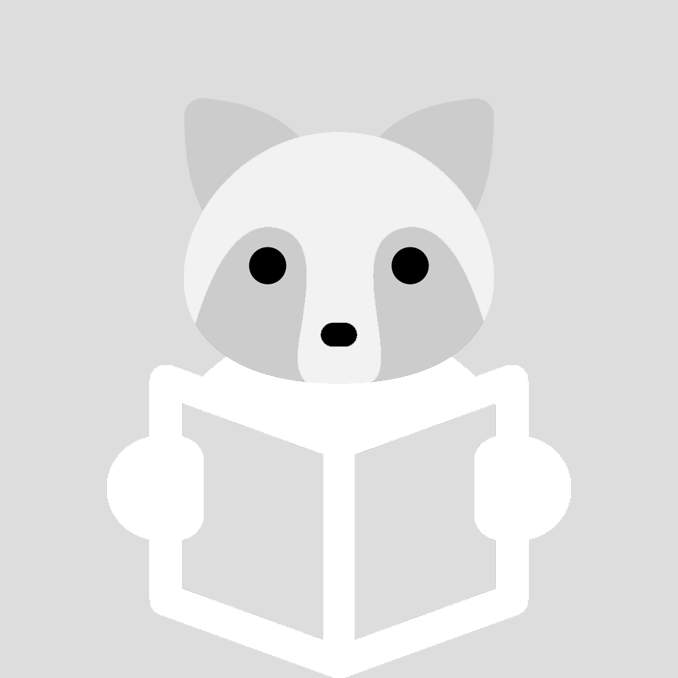
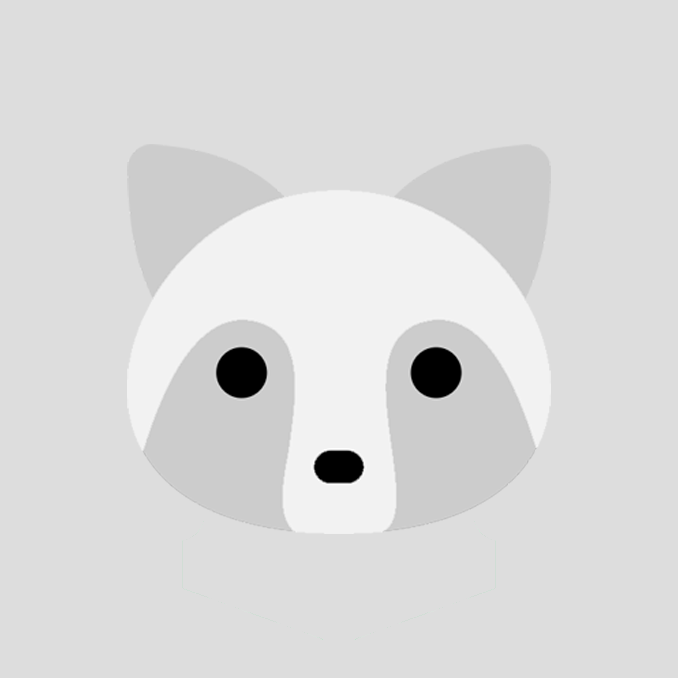
🎨 style: 기본 프로필 사진 변경, Join 주석 추가

Changed region(s): [[0.1549, 0.2478, 0.8673, 1.0], [0.4646, 0.6504, 0.5575, 0.7124]]

diff --git a/src/pages/Join.jsx b/src/pages/Join.jsx
@@ -15,15 +15,23 @@ import { emailState, pwState } from "../recoil/joinData";
 import EmailValidApi from "../api/EmailValidApi";
 
 export default function Join() {
+  // 이메일, 패스워드 상태 관리
   const [email, setEmail] = useRecoilState(emailState);
   const [password, setPassword] = useRecoilState(pwState);
   const [pwCheck, setPwCheck] = useState("");
+
+  // 에러 메시지 상태 관리
   const [emailErr, setEmailErr] = useState("");
   const [pwErr, setPwErr] = useState("");
   const [pwCheckErr, setPwCheckErr] = useState("");
+
+  // 버튼 활성화 상태 관리
   const [btnState, SetBtnState] = useState(true);
+
+  // useNavigate 사용
   const navigate = useNavigate();
 
+  // email, password, pwcheck 값을 useState에 저장
   const EmailValue = (e) => {
     setEmail(e.target.value);
     setEmailErr("");
@@ -39,6 +47,7 @@ export default function Join() {
     setPwCheckErr("");
   };
 
+  // 이메일 유효성 검사 => 통과 시 이메일 검증
   const EmailValid = async (e) => {
     e.preventDefault();
     if (!email) {
@@ -52,8 +61,10 @@ export default function Join() {
     handleValid();
   };
 
+  // 비밀번호 조건(정규 표현식)
   const passwordReg = /^(?=.*[a-z])(?=.*\d).{6,}$/;
 
+  // 비밀번호 유효성 검사
   const PasswordValid = (e) => {
     if (!password) {
       setPwErr("필수 입력 항목입니다.");
@@ -65,6 +76,7 @@ export default function Join() {
     handleValid();
   };
 
+  // 비밀번호 확인 유효성 검사
   const PwCheckValid = (e) => {
     if (!pwCheck) {
       setPwCheckErr("필수 입력 항목입니다.");
@@ -76,6 +88,7 @@ export default function Join() {
     handleValid();
   };
 
+  // 전체 필수 값, 에러 메시지 확인 후 버튼 활성화 또는 비활성화
   const handleValid = () => {
     if (
       emailErr === "사용 가능한 이메일 입니다." &&
@@ -91,10 +104,12 @@ export default function Join() {
     }
   };
 
+  // input 값 변할 때마다 버튼 활성화 확인
   useEffect(() => {
     handleValid();
   }, [email, password, pwCheck]);
 
+  // 버튼 활성화일 경우 프로필 설정 페이지로 이동
   const MoveSetProfile = (e) => {
     e.preventDefault();
     navigate("/setProfile");
